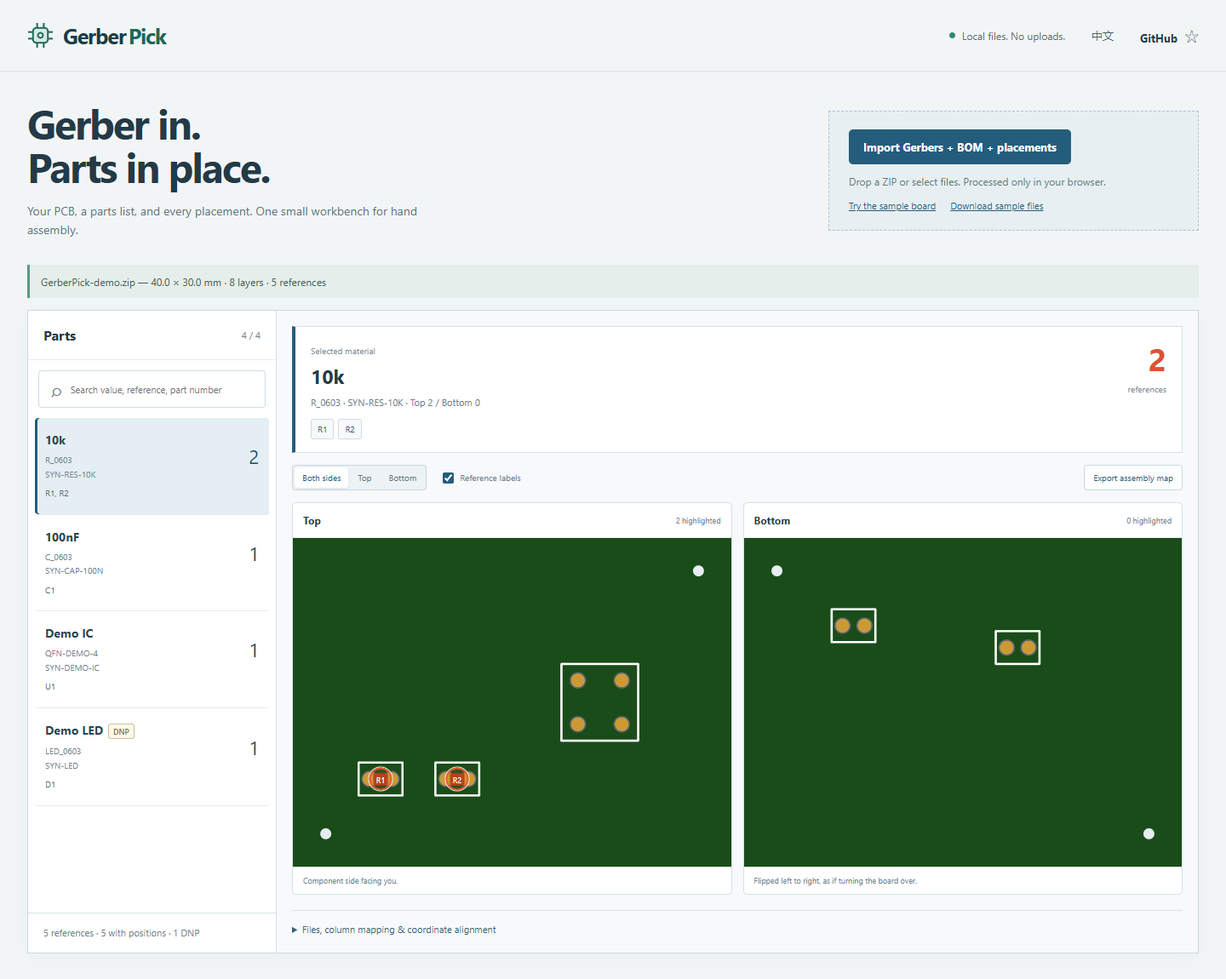
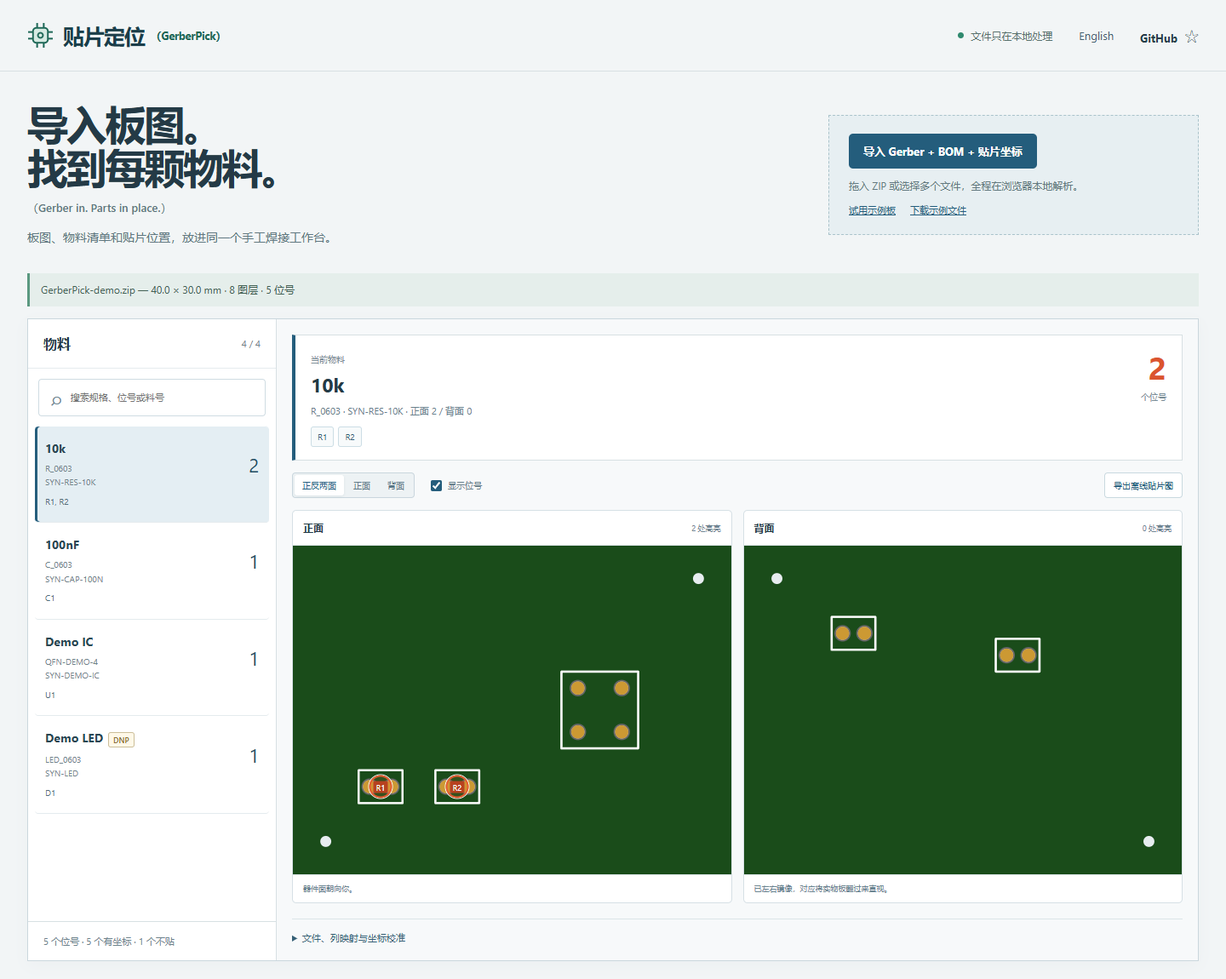
docs: make Chinese primary with parenthesized English titles

diff --git a/src/app.js b/src/app.js
@@ -4,7 +4,7 @@ import {zipSync,strToU8} from 'fflate';
 const $=id=>document.getElementById(id);
 const esc=value=>String(value??'').replace(/[&<>"']/g,c=>({'&':'&amp;','<':'&lt;','>':'&gt;','"':'&quot;',"'":'&#39;'}[c]));
 const state={entries:[],model:null,selected:null,focused:null,face:'both',language:'en',busy:false,operation:0,request:0,urls:[],name:'board',mappings:{bom:{},placement:{}},tableNames:{}};
-const zh={local:'文件只在本地处理',headline:'导入板图。<br>找到每颗物料。',intro:'板图、物料清单和贴片位置，放进同一个手工焊接工作台。',import:'导入 Gerber + BOM + 贴片坐标',drop:'拖入 ZIP 或选择多个文件，全程在浏览器本地解析。',demo:'试用示例板',downloadDemo:'下载示例文件',loading:'正在加载示例工作台…',parts:'物料',emptyParts:'导入板图后，在这里选择物料。',selected:'当前物料',noSelection:'选择一种物料',needed:'个位号',both:'正反两面',top:'正面',bottom:'背面',labels:'显示位号',export:'导出离线贴片图',emptyBoard:'这里将显示导入的二维板图。',topNote:'器件面朝向你。',bottomNote:'已左右镜像，对应将实物板翻过来直视。',settings:'文件、列映射与坐标校准',units:'坐标单位',defaultSide:'没有板面列时',offsetX:'X 偏移（mm）',offsetY:'Y 偏移（mm）',invertY:'坐标 Y 向下递增',bottomMirrored:'背面 X 已经做过镜像',mirrorOrigin:'镜像轴 X（mm，仅限已镜像坐标）',apply:'应用并重新绘图',alignmentNote:'请用相同原点导出 Gerber 和贴片坐标。焊接前用一个非对称器件核对方向。',howTitle:'Gerber 提供板图。<br>BOM 和坐标提供物料位置。',howText:'普通 Gerber 通常不含完整的物料参数和器件中心。补充 BOM 和贴片坐标（CPL / PnP / .pos）后，才能准确归组和定位。',supports:'RS-274X Gerber · Excellon 钻孔 · ZIP · CSV / TSV · KiCad .pos',privacy:'无需账号，无追踪，不上传板文件，所有处理都在本地完成。',help:'查看 KiCad / 嘉立创 / Altium 的导出方法',star:'在焊接台上用得顺手？欢迎点个 Star。',credits:'开源组件致谢'};
+const zh={local:'文件只在本地处理',headline:'导入板图。<br>找到每颗物料。<span class="english-title">（Gerber in. Parts in place.）</span>',intro:'板图、物料清单和贴片位置，放进同一个手工焊接工作台。',import:'导入 Gerber + BOM + 贴片坐标',drop:'拖入 ZIP 或选择多个文件，全程在浏览器本地解析。',demo:'试用示例板',downloadDemo:'下载示例文件',loading:'正在加载示例工作台…',parts:'物料',emptyParts:'导入板图后，在这里选择物料。',selected:'当前物料',noSelection:'选择一种物料',needed:'个位号',both:'正反两面',top:'正面',bottom:'背面',labels:'显示位号',export:'导出离线贴片图',emptyBoard:'这里将显示导入的二维板图。',topNote:'器件面朝向你。',bottomNote:'已左右镜像，对应将实物板翻过来直视。',settings:'文件、列映射与坐标校准',units:'坐标单位',defaultSide:'没有板面列时',offsetX:'X 偏移（mm）',offsetY:'Y 偏移（mm）',invertY:'坐标 Y 向下递增',bottomMirrored:'背面 X 已经做过镜像',mirrorOrigin:'镜像轴 X（mm，仅限已镜像坐标）',apply:'应用并重新绘图',alignmentNote:'请用相同原点导出 Gerber 和贴片坐标。焊接前用一个非对称器件核对方向。',howTitle:'Gerber 提供板图。<br>BOM 和坐标提供物料位置。',howText:'普通 Gerber 通常不含完整的物料参数和器件中心。补充 BOM 和贴片坐标（CPL / PnP / .pos）后，才能准确归组和定位。',supports:'RS-274X Gerber · Excellon 钻孔 · ZIP · CSV / TSV · KiCad .pos',privacy:'无需账号，无追踪，不上传板文件，所有处理都在本地完成。',help:'查看 KiCad / 嘉立创 / Altium 的导出方法',star:'在焊接台上用得顺手？欢迎点个 Star。',credits:'开源组件致谢'};
 const en=Object.fromEntries([...document.querySelectorAll('[data-i18n]')].map(el=>[el.dataset.i18n,el.innerHTML]));
 const t=(english,chinese)=>state.language==='zh'?chinese:english;
 function setLanguage(language){state.language=language;document.documentElement.lang=language==='zh'?'zh-CN':'en';document.querySelectorAll('[data-i18n]').forEach(el=>el.innerHTML=(language==='zh'?zh:en)[el.dataset.i18n]||en[el.dataset.i18n]);$('language').textContent=language==='zh'?'English':'中文';$('search').placeholder=t('Search value, reference, part number','搜索规格、位号或料号');if(state.model){renderList();select(state.selected,state.focused);showIssues();renderFiles();if(!state.busy&&!$('status').classList.contains('error'))status(summary(state.model,state.name));}}

diff --git a/src/index.html b/src/index.html
@@ -1,13 +1,13 @@
 <!doctype html>
-<html lang="en"><head><meta charset="utf-8"><meta name="viewport" content="width=device-width,initial-scale=1">
-<meta name="description" content="Turn Gerbers into an interactive PCB assembly map. Find every resistor, capacitor and IC. Local files stay in your browser.">
+<html lang="zh-CN"><head><meta charset="utf-8"><meta name="viewport" content="width=device-width,initial-scale=1">
+<meta name="description" content="通用 PCB 贴片定位工具（GerberPick）：本地导入 Gerber、BOM 和贴片坐标，查看正反面物料位置与数量。">
 <meta http-equiv="Content-Security-Policy" content="default-src 'self'; script-src 'self'; style-src 'self' 'unsafe-inline'; img-src 'self' blob: data:; connect-src 'self'; object-src 'none'; base-uri 'none'">
-<title>GerberPick — Gerber in. Parts in place.</title><link rel="stylesheet" href="./style.css"><link rel="icon" href="data:,">
+<title>通用 PCB 贴片定位工具（GerberPick）</title><link rel="stylesheet" href="./style.css"><link rel="icon" href="data:,">
 <script defer src="./vendor/pcb-stackup.min.js"></script><script defer src="./app.js"></script></head>
 <body>
-<header class="topbar"><a class="brand" href="./" aria-label="GerberPick home"><svg viewBox="0 0 32 32" aria-hidden="true"><rect x="7" y="7" width="18" height="18" rx="4"/><path d="M12 1v6m8-6v6M12 25v6m8-6v6M1 12h6m-6 8h6m18-8h6m-6 8h6"/><circle cx="16" cy="16" r="3"/></svg>Gerber<span>Pick</span></a><div class="top-actions"><span class="local"><i></i><span data-i18n="local">Local files. No uploads.</span></span><button id="language" class="quiet" aria-label="Switch language">中文</button><a class="github" href="https://github.com/LiziLaiLa/gerber-pick" target="_blank" rel="noopener">GitHub <span aria-hidden="true">☆</span></a></div></header>
+<header class="topbar"><a class="brand" href="./" aria-label="贴片定位（GerberPick）首页"><svg viewBox="0 0 32 32" aria-hidden="true"><rect x="7" y="7" width="18" height="18" rx="4"/><path d="M12 1v6m8-6v6M12 25v6m8-6v6M1 12h6m-6 8h6m18-8h6m-6 8h6"/><circle cx="16" cy="16" r="3"/></svg>贴片定位<span>（GerberPick）</span></a><div class="top-actions"><span class="local"><i></i><span data-i18n="local">Local files. No uploads.</span></span><button id="language" class="quiet" aria-label="Switch language">中文</button><a class="github" href="https://github.com/LiziLaiLa/gerber-pick" target="_blank" rel="noopener">GitHub <span aria-hidden="true">☆</span></a></div></header>
 <main id="drop-target">
-<section class="intro"><div><h1 data-i18n="headline">Gerber in.<br>Parts in place.</h1><p data-i18n="intro">Your PCB, a parts list, and every placement. One small workbench for hand assembly.</p></div><div class="import-box"><label class="primary" for="files" data-i18n="import">Import Gerbers + BOM + placements</label><input id="files" type="file" multiple hidden><p data-i18n="drop">Drop a ZIP or select files. Processed only in your browser.</p><div><button id="demo" class="text-button" data-i18n="demo">Try the sample board</button><a href="./demo.zip" download data-i18n="downloadDemo">Download sample files</a></div></div></section>
+<section class="intro"><div><h1 data-i18n="headline">导入板图。<br>找到每颗物料。<span class="english-title">（Gerber in. Parts in place.）</span></h1><p data-i18n="intro">Your PCB, a parts list, and every placement. One small workbench for hand assembly.</p></div><div class="import-box"><label class="primary" for="files" data-i18n="import">Import Gerbers + BOM + placements</label><input id="files" type="file" multiple hidden><p data-i18n="drop">Drop a ZIP or select files. Processed only in your browser.</p><div><button id="demo" class="text-button" data-i18n="demo">Try the sample board</button><a href="./demo.zip" download data-i18n="downloadDemo">Download sample files</a></div></div></section>
 <div id="status" class="status" role="status" aria-live="polite" data-i18n="loading">Loading the sample workbench…</div>
 <section class="workbench" aria-label="PCB assembly workbench">
 <aside class="inventory"><div class="inventory-head"><h2 data-i18n="parts">Parts</h2><span id="total">—</span></div><label class="search"><span aria-hidden="true">⌕</span><input id="search" type="search" placeholder="Search value, reference, part number" aria-label="Search materials"></label><div id="groups" class="groups"><p class="empty" data-i18n="emptyParts">Import a board to find its parts.</p></div><div id="inventory-foot" class="inventory-foot"></div></aside>

diff --git a/src/style.css b/src/style.css
@@ -3,3 +3,5 @@
 @media(max-width:1100px){.local{display:none}.topbar{padding:16px 22px}main{padding:0 22px}.workbench{grid-template-columns:245px minmax(0,1fr)}.intro{gap:25px}.import-box{width:360px;padding:17px}.boards{grid-template-columns:1fr}.settings-grid,.mapping-grid{grid-template-columns:repeat(2,minmax(0,1fr))}.groups{max-height:760px}.how{gap:30px}footer{margin:0 22px}}
 @media(max-width:650px){.topbar{padding:14px 16px;min-height:68px}.brand{font-size:22px}.brand svg{width:27px;height:27px}.top-actions{gap:10px}.github{font-size:11px}.quiet{font-size:11px}main{padding:0 12px}.intro{grid-template-columns:1fr;padding:25px 4px 20px;gap:20px}.intro h1{font-size:36px}.intro>div>p{font-size:13px;max-width:340px}.import-box{width:100%;padding:17px}.primary{font-size:12px;padding:12px;width:100%}.status{font-size:11px;margin-bottom:10px}.workbench{display:flex;flex-direction:column}.inventory{border-right:0;border-bottom:1px solid var(--line)}.inventory-head{padding:12px 15px}.search{margin:8px 12px;padding:8px 10px}.groups{display:grid;grid-template-columns:1fr 1fr;max-height:190px;min-height:100px}.part{padding:10px;gap:4px}.part-name{font-size:12px}.part-qty{font-size:19px}.part small{font-size:9px}.part .part-refs{display:none}.inventory-foot{padding:8px 15px;font-size:10px}.board-workspace{padding:11px}.selection{padding:12px;gap:8px}.selection h2{font-size:20px}.quantity strong{font-size:31px}.quantity>span{font-size:9px}.view-tools{gap:9px;font-size:9px}.export{margin-left:0}.face h3{font-size:12px}.how{grid-template-columns:1fr;padding:27px 5px 25px;gap:15px}.how h2{font-size:22px}.how p{font-size:11px}.settings-grid,.mapping-grid{grid-template-columns:1fr 1fr;gap:9px}.mirror-origin{align-items:flex-start}.settings-grid .check{grid-column:span 2}footer{margin:0 16px;gap:15px;flex-wrap:wrap;line-height:1.7;font-size:9px}.marker{width:23px;height:23px}.marker>span{font-size:8px}}
 @media(prefers-reduced-motion:no-preference){button,a{transition:background-color .12s ease,box-shadow .12s ease}}
+
+.brand>span{font-size:13px;letter-spacing:-.3px;margin-left:-4px}.english-title{display:block;font-size:13px;letter-spacing:0;font-weight:500;color:#607780;margin-top:12px;line-height:1.5}@media(max-width:650px){.brand{gap:8px;font-size:18px;letter-spacing:-.5px}.brand>span{font-size:10px;margin-left:-3px}.brand svg{width:23px;height:23px}.english-title{font-size:11px}}

diff --git a/README.md b/README.md
@@ -1,55 +1,55 @@
-# GerberPick
+# 通用 PCB 贴片定位工具（GerberPick）
 
-**Gerber in. Parts in place.**
+**导入板图，找到每颗物料。（Gerber in. Parts in place.）**
 
-Turn fabrication files into a click-to-find PCB assembly map. Select a resistor, capacitor or IC in the BOM and see every matching placement on both sides of the board.
+[在线使用（Live demo）](https://lizilaila.github.io/gerber-pick/) · [下载版本（Download）](https://github.com/LiziLaiLa/gerber-pick/releases) · [英文说明（English）](README.en.md)
 
-[**Open the workbench**](https://lizilaila.github.io/gerber-pick/) · [Download](https://github.com/LiziLaiLa/gerber-pick/releases) · [简体中文](README.zh-CN.md)
+![GerberPick 合成示例板工作台](docs/screenshot.png)
 
-![GerberPick workbench with a synthetic board](docs/screenshot.png)
+这是一个浏览器本地运行的 Gerber 查看和手工贴片定位工具。导入 Gerber、BOM 和贴片坐标，选择一种物料，就能在正反面板图上看到全部位置与数量。
 
-## A small tool for the soldering bench
+## 怎么用（Quick start）
 
-- **Drop a Gerber ZIP or select files.** Render top/bottom copper, soldermask, silkscreen, outline and Excellon drills with the tracespace renderer.
-- **Find every part.** Join BOM and placement references, group matching materials, show quantities, and highlight all matching positions. Search by value, reference or part number.
-- **Keep both sides straight.** Bottom view follows the actual board flip. Placement units, origins, Y direction and already-mirrored bottom coordinates are explicit and adjustable.
-- **Map unfamiliar spreadsheets.** CSV/TSV header detection covers common English/Chinese exports. Choose columns manually when needed. KiCad `.pos` files work too.
-- **Export a portable assembly map.** A ZIP with a script-free HTML viewer and two board images. Unzip everything, open `index.html`, and click materials without running this app.
-- **Keep board files local.** No login, analytics, upload endpoint or runtime CDN. The importer reads your files in browser memory. Only the bundled sample is fetched from this site.
-- **English and Chinese.** One workbench, a language switch, and a layout that also fits a phone.
+1. 拖入一个 ZIP，或一起选择 Gerber/钻孔文件、BOM CSV 和贴片坐标 CSV / KiCad `.pos`。
+2. 点击左侧物料，在两面图上查看对应位置。可按规格、位号或料号搜索。
+3. 表头或单位不匹配时，展开“文件、列映射与坐标校准”，选择文件/列、单位和原点偏移。
+4. 需要留档时点“导出离线贴片图”。将下载包**全部解压**，直接打开其中的 `index.html`，无需脚本或服务器。
 
-### Does Gerber alone contain the BOM?
+普通 Gerber 通常只有光绘板图，不含完整 BOM 和器件中心。因此：只有 Gerber 时可看板图；有 BOM 才有可靠物料参数；有 CPL/PnP/`.pos` 才能准确定位。没有坐标的位号仍保留在清单中，不编造位置。X2 引脚属性不当作器件中心，当前尚不完整支持 X3 元件层。
 
-Usually **no**. Standard Gerbers describe layer artwork, not a complete material list or exact component centers.
+## 支持什么（Features）
 
-| What you import | What you get |
+- RS-274X Gerber、Excellon 钻孔、ZIP、CSV / TSV、KiCad `.pos`。
+- 常见 KiCad、EasyEDA / 嘉立创、JLCPCB 和 Altium 导出的中英表头；未知表头可手动映射。
+- mm / inch / mil、正负原点、Y 方向、已镜像的背面 X 坐标校正。
+- 正反面位置、同物料归组数量、DNP 标记、独立离线贴片图导出。
+- 中英界面，电脑和窄屏布局。
+
+XLSX、ODB++、IPC-2581、3D 模型不在当前范围内。请导出 CSV/TSV。Gerber 与贴片坐标必须使用相同原点，焊接前用实际非对称器件检查方向。DNP 表示不贴：界面和导出图均有明确标记。
+
+<a id="exporting-your-files"></a>
+
+## 从设计软件导出（Exporting your files）
+
+Gerber 和贴片坐标必须使用同一原点，并保留板框。BOM 和坐标文件的位号需要一致。
+
+| 设计软件 | 导出的文件 |
 | --- | --- |
-| Gerbers / drills | A two-sided board viewer |
-| Gerbers + BOM | Material groups and counts; references without placements stay unlocated |
-| Gerbers + CPL / PnP / `.pos` | Locations; material identity uses whatever the placement file supplies |
-| Gerbers + BOM + placements | The full assembly map |
+| KiCad | Gerber、Excellon 钻孔、BOM CSV，以及含单位信息的 `.pos` 或坐标 CSV |
+| 嘉立创 / EasyEDA / JLCPCB | Gerber ZIP、BOM CSV、贴片坐标 CPL CSV，常见列为 Designator、Mid X、Mid Y、Layer、Rotation |
+| Altium 或其他软件 | Gerber、钻孔、BOM CSV/TSV 和贴片坐标 CSV；表头不匹配时手动映射 |
 
-Gerber X2 pin/reference attributes are shown as evidence, not invented component centers. Full X3 component-layer import is **not implemented** in this release. Unknown material identities remain separate rather than being silently merged.
+只有 Gerber 时先查看板图；如需物料归组和位置，请一起导入 BOM 与贴片坐标。导入前不需要把文件上传到任何服务器。
 
-## Exporting your files
+## 隐私（Privacy）
 
-Export **all layers and placements with the same coordinate origin**. Include the board outline. Use matching reference designators in the BOM and placement table.
+板文件只在浏览器内存中读取，不上传、无账号、无统计追踪、不写本地存储。运行依赖都打包在本站，不依赖外部 CDN。刷新后会清空当前导入，需保留时请导出贴片图。站点仅加载自己的静态应用和合成示例。
 
-| CAD / service | Files to select |
-| --- | --- |
-| KiCad | Gerbers + Excellon drill, BOM CSV, and position `.pos` or CSV; position-file headers provide units |
-| EasyEDA / JLCPCB | Gerber ZIP, BOM CSV, and Pick and Place / CPL CSV (`Designator`, `Mid X`, `Mid Y`, `Layer`, `Rotation`) |
-| Altium / other CAD | Gerbers + drill, BOM CSV/TSV, and placement CSV; use column mapping for your export headers |
+限制：单个展开文件 10 MiB、总选择 20 MiB、总展开 50 MiB、ZIP 500 项、每项展开比不超过 200 倍；拒绝加密、ZIP64、重名和路径穿越。失败会说明原因，并保留上一块成功显示的板图。
 
-XLSX, ODB++, IPC-2581 and 3D models are not accepted. Export tables as UTF-8 CSV/TSV. GB18030 text is also decoded for common Chinese exports.
+## 本地运行（Run locally）
 
-If units are absent, choose them under **Files, column mapping & coordinate alignment**. The importer does not guess. If positions are off the board, check units and origin before applying offsets. Verify an asymmetric part against your actual board before soldering.
-
-**DNP is explicit:** these references are shown with a DNP badge and dashed markers, and are labelled “do not fit” in exported maps. Counts are listed reference counts, including a separately identified DNP group.
-
-## Run locally
-
-Node.js 22+:
+需要 Node.js 22+：
 
 ```sh
 npm ci
@@ -58,31 +58,12 @@ npm run build
 npm run dev
 ```
 
-Open the local URL printed by the server. `PORT=8080 npm run dev` changes the port. The default is `127.0.0.1:8795`.
+打开终端输出的本机地址。Release 的 `gerber-pick-web.zip` 是完整静态应用，解压后用任意静态服务器打开，例如 `python -m http.server 8080`。若要双击直接查看，请用应用导出的“离线贴片图”。
 
-The release's **`gerber-pick-web.zip`** contains the built static app. Serve the unzipped directory with any static server, for example `python -m http.server 8080`. No backend is required. For double-click offline viewing, use the **Export assembly map** output instead.
+本项目为 v0.1 装配辅助工具，不代替 CAM/DRC 或制造验收。更多格式限制、架构及依赖致谢见[英文说明（English）](README.en.md)。示例板全部为自造测试数据。
 
-## Privacy and limits
+MIT 开源。如果它帮你少找几颗电阻，欢迎点个 ⭐，让更多做硬件的人看到。
 
-Imported board files are not uploaded or saved to local storage. Reloading clears the imported project. Download an assembly map if you want to keep it. As with any hosted app, the host receives normal requests for the app's own static files; it never needs your PCB contents.
+## 开发与贡献（Development & contributing）
 
-Current guardrails: 10 MiB per expanded file, 20 MiB total selected input, 50 MiB combined expanded data, 500 ZIP entries, and a 200× entry expansion ratio. Encrypted ZIP, ZIP64, duplicate names and traversal paths are rejected before extraction. Oversized or malformed files produce a specific error; the last successful board stays visible.
-
-This is a **v0.1 assembly aid**, not CAM sign-off, DRC or manufacturing verification. Vendor export variations exist. Unsupported mixed per-face renderer units are rejected instead of producing incorrect alignment. Supported-layer recognition follows tracespace's filename rules and Gerber file-function attributes.
-
-## Development
-
-- `src/importer.js`: file limits, ZIP inspection, CSV / `.pos` parsing, render adapter and coordinate projection.
-- `src/app.js`: browser UI, mapping, local image display and portable-map export.
-- `fixtures/`: a completely synthetic 40 × 30 mm demo, with a top and bottom component, DNP part, two holes and position/BOM variants.
-- `test/importer.test.mjs`: real render tests, independent projection checks for both faces and nonzero/negative origins, inch conversion, mapping, DNP and malformed ZIP cases.
-
-`npm run build` vendors scripts locally and creates `dist/` plus `gerber-pick-web.zip`. The GitHub workflow tests, builds and deploys the static demo to Pages. Runtime dependency licenses are included in the build.
-
-## Credits and license
-
-MIT. Gerber rendering uses [tracespace / pcb-stackup 4.2.8](https://github.com/tracespace/tracespace/tree/main/packages/pcb-stackup), ZIP handling uses [fflate](https://github.com/101arrowz/fflate), and CSV parsing uses [Papa Parse](https://github.com/mholt/PapaParse). Their notices are distributed with the static build. The tracespace v4 renderer is mature but upstream maintenance is limited; the v5 alpha is not used.
-
-Found a board export that doesn't work? Open an issue with the CAD/export settings and a **sanitized, shareable** minimal reproduction. Please do not post confidential board files.
-
-If this saves you a few minutes at the bench, a ⭐ helps other makers find it.
+本项目使用 MIT 协议。欢迎提交 Issue 和 PR；请使用可公开分享的最小示例，不要上传保密板文件。详细开发、格式限制和第三方致谢见[英文说明（English）](README.en.md)及[贡献指南（Contributing）](CONTRIBUTING.md)。

diff --git a/README.en.md b/README.en.md
@@ -1,0 +1,88 @@
+# 通用 PCB 贴片定位工具（GerberPick）
+
+**Gerber in. Parts in place.**
+
+Turn fabrication files into a click-to-find PCB assembly map. Select a resistor, capacitor or IC in the BOM and see every matching placement on both sides of the board.
+
+[**Open the workbench**](https://lizilaila.github.io/gerber-pick/) · [Download](https://github.com/LiziLaiLa/gerber-pick/releases) · [中文首页（Chinese）](README.md)
+
+![GerberPick workbench with a synthetic board](docs/screenshot.png)
+
+## A small tool for the soldering bench
+
+- **Drop a Gerber ZIP or select files.** Render top/bottom copper, soldermask, silkscreen, outline and Excellon drills with the tracespace renderer.
+- **Find every part.** Join BOM and placement references, group matching materials, show quantities, and highlight all matching positions. Search by value, reference or part number.
+- **Keep both sides straight.** Bottom view follows the actual board flip. Placement units, origins, Y direction and already-mirrored bottom coordinates are explicit and adjustable.
+- **Map unfamiliar spreadsheets.** CSV/TSV header detection covers common English/Chinese exports. Choose columns manually when needed. KiCad `.pos` files work too.
+- **Export a portable assembly map.** A ZIP with a script-free HTML viewer and two board images. Unzip everything, open `index.html`, and click materials without running this app.
+- **Keep board files local.** No login, analytics, upload endpoint or runtime CDN. The importer reads your files in browser memory. Only the bundled sample is fetched from this site.
+- **English and Chinese.** One workbench, a language switch, and a layout that also fits a phone.
+
+### Does Gerber alone contain the BOM?
+
+Usually **no**. Standard Gerbers describe layer artwork, not a complete material list or exact component centers.
+
+| What you import | What you get |
+| --- | --- |
+| Gerbers / drills | A two-sided board viewer |
+| Gerbers + BOM | Material groups and counts; references without placements stay unlocated |
+| Gerbers + CPL / PnP / `.pos` | Locations; material identity uses whatever the placement file supplies |
+| Gerbers + BOM + placements | The full assembly map |
+
+Gerber X2 pin/reference attributes are shown as evidence, not invented component centers. Full X3 component-layer import is **not implemented** in this release. Unknown material identities remain separate rather than being silently merged.
+
+## Exporting your files
+
+Export **all layers and placements with the same coordinate origin**. Include the board outline. Use matching reference designators in the BOM and placement table.
+
+| CAD / service | Files to select |
+| --- | --- |
+| KiCad | Gerbers + Excellon drill, BOM CSV, and position `.pos` or CSV; position-file headers provide units |
+| EasyEDA / JLCPCB | Gerber ZIP, BOM CSV, and Pick and Place / CPL CSV (`Designator`, `Mid X`, `Mid Y`, `Layer`, `Rotation`) |
+| Altium / other CAD | Gerbers + drill, BOM CSV/TSV, and placement CSV; use column mapping for your export headers |
+
+XLSX, ODB++, IPC-2581 and 3D models are not accepted. Export tables as UTF-8 CSV/TSV. GB18030 text is also decoded for common Chinese exports.
+
+If units are absent, choose them under **Files, column mapping & coordinate alignment**. The importer does not guess. If positions are off the board, check units and origin before applying offsets. Verify an asymmetric part against your actual board before soldering.
+
+**DNP is explicit:** these references are shown with a DNP badge and dashed markers, and are labelled “do not fit” in exported maps. Counts are listed reference counts, including a separately identified DNP group.
+
+## Run locally
+
+Node.js 22+:
+
+```sh
+npm ci
+npm test
+npm run build
+npm run dev
+```
+
+Open the local URL printed by the server. `PORT=8080 npm run dev` changes the port. The default is `127.0.0.1:8795`.
+
+The release's **`gerber-pick-web.zip`** contains the built static app. Serve the unzipped directory with any static server, for example `python -m http.server 8080`. No backend is required. For double-click offline viewing, use the **Export assembly map** output instead.
+
+## Privacy and limits
+
+Imported board files are not uploaded or saved to local storage. Reloading clears the imported project. Download an assembly map if you want to keep it. As with any hosted app, the host receives normal requests for the app's own static files; it never needs your PCB contents.
+
+Current guardrails: 10 MiB per expanded file, 20 MiB total selected input, 50 MiB combined expanded data, 500 ZIP entries, and a 200× entry expansion ratio. Encrypted ZIP, ZIP64, duplicate names and traversal paths are rejected before extraction. Oversized or malformed files produce a specific error; the last successful board stays visible.
+
+This is a **v0.1 assembly aid**, not CAM sign-off, DRC or manufacturing verification. Vendor export variations exist. Unsupported mixed per-face renderer units are rejected instead of producing incorrect alignment. Supported-layer recognition follows tracespace's filename rules and Gerber file-function attributes.
+
+## Development
+
+- `src/importer.js`: file limits, ZIP inspection, CSV / `.pos` parsing, render adapter and coordinate projection.
+- `src/app.js`: browser UI, mapping, local image display and portable-map export.
+- `fixtures/`: a completely synthetic 40 × 30 mm demo, with a top and bottom component, DNP part, two holes and position/BOM variants.
+- `test/importer.test.mjs`: real render tests, independent projection checks for both faces and nonzero/negative origins, inch conversion, mapping, DNP and malformed ZIP cases.
+
+`npm run build` vendors scripts locally and creates `dist/` plus `gerber-pick-web.zip`. The GitHub workflow tests, builds and deploys the static demo to Pages. Runtime dependency licenses are included in the build.
+
+## Credits and license
+
+MIT. Gerber rendering uses [tracespace / pcb-stackup 4.2.8](https://github.com/tracespace/tracespace/tree/main/packages/pcb-stackup), ZIP handling uses [fflate](https://github.com/101arrowz/fflate), and CSV parsing uses [Papa Parse](https://github.com/mholt/PapaParse). Their notices are distributed with the static build. The tracespace v4 renderer is mature but upstream maintenance is limited; the v5 alpha is not used.
+
+Found a board export that doesn't work? Open an issue with the CAD/export settings and a **sanitized, shareable** minimal reproduction. Please do not post confidential board files.
+
+If this saves you a few minutes at the bench, a ⭐ helps other makers find it.

diff --git a/README.zh-CN.md b/README.zh-CN.md
@@ -1,14 +1,14 @@
-# GerberPick
+# 通用 PCB 贴片定位工具（GerberPick）
 
-**导入板图，找到每颗物料。**
+**导入板图，找到每颗物料。（Gerber in. Parts in place.）**
 
-[在线使用](https://lizilaila.github.io/gerber-pick/) · [下载版本](https://github.com/LiziLaiLa/gerber-pick/releases) · [English](README.md)
+[在线使用（Live demo）](https://lizilaila.github.io/gerber-pick/) · [下载版本（Download）](https://github.com/LiziLaiLa/gerber-pick/releases) · [英文说明（English）](README.en.md)
 
 ![GerberPick 合成示例板工作台](docs/screenshot.png)
 
 这是一个浏览器本地运行的 Gerber 查看和手工贴片定位工具。导入 Gerber、BOM 和贴片坐标，选择一种物料，就能在正反面板图上看到全部位置与数量。
 
-## 怎么用
+## 怎么用（Quick start）
 
 1. 拖入一个 ZIP，或一起选择 Gerber/钻孔文件、BOM CSV 和贴片坐标 CSV / KiCad `.pos`。
 2. 点击左侧物料，在两面图上查看对应位置。可按规格、位号或料号搜索。
@@ -17,7 +17,7 @@
 
 普通 Gerber 通常只有光绘板图，不含完整 BOM 和器件中心。因此：只有 Gerber 时可看板图；有 BOM 才有可靠物料参数；有 CPL/PnP/`.pos` 才能准确定位。没有坐标的位号仍保留在清单中，不编造位置。X2 引脚属性不当作器件中心，当前尚不完整支持 X3 元件层。
 
-## 支持什么
+## 支持什么（Features）
 
 - RS-274X Gerber、Excellon 钻孔、ZIP、CSV / TSV、KiCad `.pos`。
 - 常见 KiCad、EasyEDA / 嘉立创、JLCPCB 和 Altium 导出的中英表头；未知表头可手动映射。
@@ -27,13 +27,27 @@
 
 XLSX、ODB++、IPC-2581、3D 模型不在当前范围内。请导出 CSV/TSV。Gerber 与贴片坐标必须使用相同原点，焊接前用实际非对称器件检查方向。DNP 表示不贴：界面和导出图均有明确标记。
 
-## 隐私
+<a id="exporting-your-files"></a>
+
+## 从设计软件导出（Exporting your files）
+
+Gerber 和贴片坐标必须使用同一原点，并保留板框。BOM 和坐标文件的位号需要一致。
+
+| 设计软件 | 导出的文件 |
+| --- | --- |
+| KiCad | Gerber、Excellon 钻孔、BOM CSV，以及含单位信息的 `.pos` 或坐标 CSV |
+| 嘉立创 / EasyEDA / JLCPCB | Gerber ZIP、BOM CSV、贴片坐标 CPL CSV，常见列为 Designator、Mid X、Mid Y、Layer、Rotation |
+| Altium 或其他软件 | Gerber、钻孔、BOM CSV/TSV 和贴片坐标 CSV；表头不匹配时手动映射 |
+
+只有 Gerber 时先查看板图；如需物料归组和位置，请一起导入 BOM 与贴片坐标。导入前不需要把文件上传到任何服务器。
+
+## 隐私（Privacy）
 
 板文件只在浏览器内存中读取，不上传、无账号、无统计追踪、不写本地存储。运行依赖都打包在本站，不依赖外部 CDN。刷新后会清空当前导入，需保留时请导出贴片图。站点仅加载自己的静态应用和合成示例。
 
 限制：单个展开文件 10 MiB、总选择 20 MiB、总展开 50 MiB、ZIP 500 项、每项展开比不超过 200 倍；拒绝加密、ZIP64、重名和路径穿越。失败会说明原因，并保留上一块成功显示的板图。
 
-## 本地运行
+## 本地运行（Run locally）
 
 需要 Node.js 22+：
 
@@ -46,6 +60,10 @@ npm run dev
 
 打开终端输出的本机地址。Release 的 `gerber-pick-web.zip` 是完整静态应用，解压后用任意静态服务器打开，例如 `python -m http.server 8080`。若要双击直接查看，请用应用导出的“离线贴片图”。
 
-本项目为 v0.1 装配辅助工具，不代替 CAM/DRC 或制造验收。更多格式限制、架构及依赖致谢见[英文说明](README.md)。示例板全部为自造测试数据。
+本项目为 v0.1 装配辅助工具，不代替 CAM/DRC 或制造验收。更多格式限制、架构及依赖致谢见[英文说明（English）](README.en.md)。示例板全部为自造测试数据。
 
 MIT 开源。如果它帮你少找几颗电阻，欢迎点个 ⭐，让更多做硬件的人看到。
+
+## 开发与贡献（Development & contributing）
+
+本项目使用 MIT 协议。欢迎提交 Issue 和 PR；请使用可公开分享的最小示例，不要上传保密板文件。详细开发、格式限制和第三方致谢见[英文说明（English）](README.en.md)及[贡献指南（Contributing）](CONTRIBUTING.md)。
